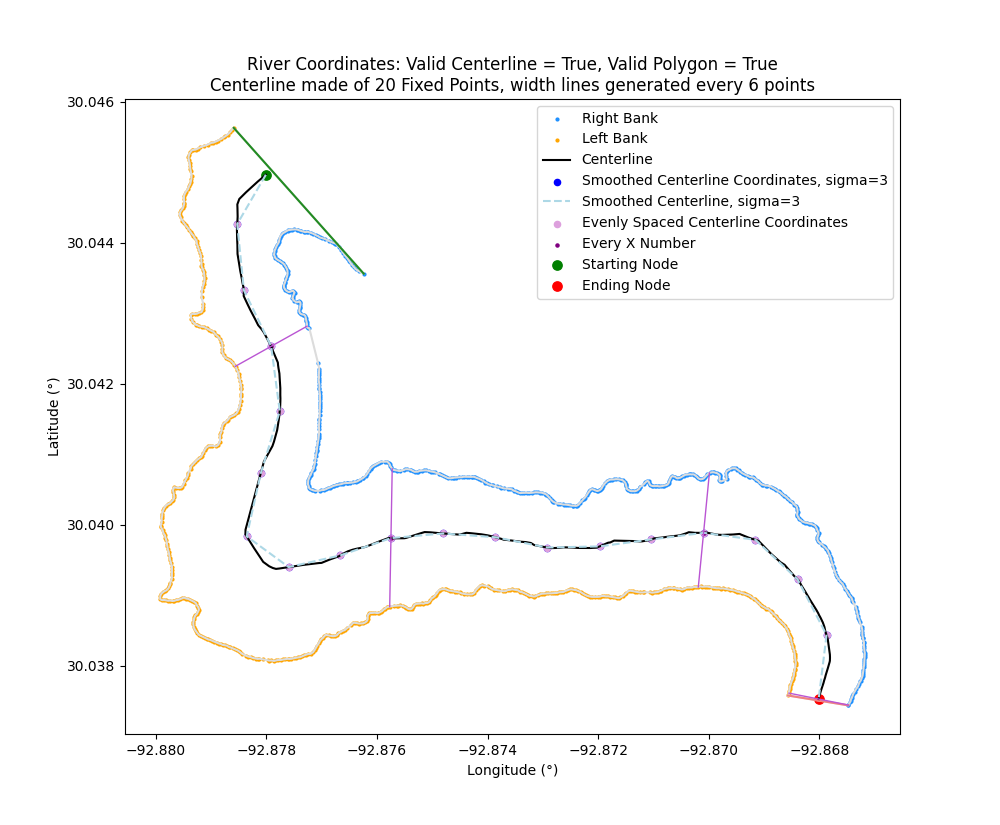
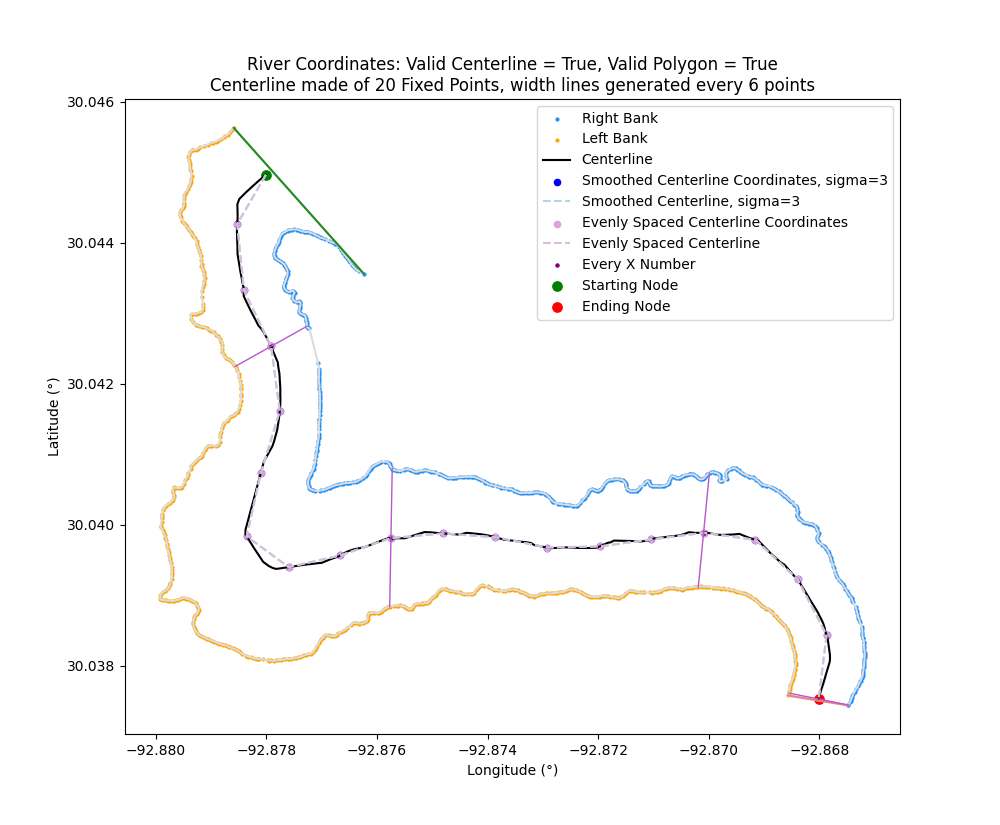
errorHandlingPlotCenterlineWidth() error handling, split from errorHandlingPlotCenterline()

Changed region(s): [[0.527, 0.2727, 0.775, 0.3939]]

diff --git a/centerline_width/plotDiagrams.py b/centerline_width/plotDiagrams.py
@@ -22,12 +22,12 @@ def plotCenterline(csv_data=None,
 					optional_cutoff=None):
 	# Plot Centerline of River
 
-	#centerline_width.errorHandlingPlotCenterline(csv_data=csv_data,
-	#											display_all_possible_paths=display_all_possible_paths,
-	#											plot_title=plot_title,
-	#											save_plot_name=save_plot_name,
-	#											displayVoronoi=displayVoronoi,
-	#											optional_cutoff=optional_cutoff)
+	centerline_width.errorHandlingPlotCenterline(csv_data=csv_data,
+												display_all_possible_paths=display_all_possible_paths,
+												plot_title=plot_title,
+												save_plot_name=save_plot_name,
+												displayVoronoi=displayVoronoi,
+												optional_cutoff=optional_cutoff)
 
 	# Plot river
 	df = pd.read_csv(csv_data)
@@ -120,6 +120,16 @@ def plotCenterlineWidth(csv_data=None,
 						gaussian_filter_sigma=None,
 						optional_cutoff=None):
 	# Plot Width Lines based on Centerline
+
+	centerline_width.errorHandlingPlotCenterlineWidth(csv_data=csv_data,
+													plot_title=plot_title, 
+													save_plot_name=save_plot_name, 
+													displayTrueCenterline=displayTrueCenterline,
+													n_interprolate_centerpoints=n_interprolate_centerpoints,
+													transect_span_distance=transect_span_distance,
+													gaussian_filter_sigma=gaussian_filter_sigma,
+													optional_cutoff=optional_cutoff)
+
 	# Plot river
 	df = pd.read_csv(csv_data)
 	if optional_cutoff: # only include the first x amount of the data
@@ -205,8 +215,6 @@ def plotCenterlineWidth(csv_data=None,
 					y.append(v)
 				plt.scatter(x, y, c="blue", label="Smoothed Centerline Coordinates, sigma={0}".format(gaussian_filter_sigma), s=20)
 				plt.plot(*zip(*smoothed_centerline_coordinates), "--", c="lightblue", label="Smoothed Centerline, sigma={0}".format(gaussian_filter_sigma))
-				change_in_length = (centerline_width.centerlineLength(centerline_coordinates=smoothed_centerline_coordinates)/centerline_width.centerlineLength(centerline_coordinates=shortest_path_points))*100
-				print("Smoothed length = {0} ({1}%)%".format(centerline_width.centerlineLength(centerline_coordinates=smoothed_centerline_coordinates), change_in_length))
 			else:
 				right_width_coordinates, left_width_coordinates = centerline_width.riverWidthFromCenterlineCoordinates(csv_data=csv_, 
 																														bank_polygon=river_bank_polygon,
@@ -220,9 +228,7 @@ def plotCenterlineWidth(csv_data=None,
 				x.append(k)
 				y.append(v)
 			plt.scatter(x, y, c="plum", label="Evenly Spaced Centerline Coordinates", s=20)
-			#plt.plot(*zip(*evenly_spaced_centerline_coordinates), "--", c="thistle", label="Evenly Spaced Centerline")
-			change_in_length = (centerline_width.centerlineLength(centerline_coordinates=evenly_spaced_centerline_coordinates)/centerline_width.centerlineLength(centerline_coordinates=shortest_path_points))*100
-			print("Evenly spaced length = {0} ({1}%)%".format(centerline_width.centerlineLength(centerline_coordinates=evenly_spaced_centerline_coordinates),change_in_length))
+			plt.plot(*zip(*evenly_spaced_centerline_coordinates), "--", c="thistle", label="Evenly Spaced Centerline")
 
 			x = []
 			y = []

diff --git a/centerline_width/error_handling.py b/centerline_width/error_handling.py
@@ -42,11 +42,6 @@ def errorHandlingPlotCenterline(csv_data=None,
 								plot_title=None,
 								save_plot_name=None,
 								displayVoronoi=None,
-								displayCenterline=None,
-								plot_width_lines=None,
-								n_interprolate_centerpoints=None,
-								transect_span_distance=None,
-								gaussian_filter_sigma=None,
 								optional_cutoff=None):
 	# Error handling for plotCenterline()
 	if csv_data is None:
@@ -77,12 +72,41 @@ def errorHandlingPlotCenterline(csv_data=None,
 		logger.critical("\nCRITICAL ERROR, [displayVoronoi]: Must be a bool, current type = '{0}'".format(type(displayVoronoi)))
 		exit()
 
-	if type(displayCenterline) != bool:
-		logger.critical("\nCRITICAL ERROR, [displayCenterline]: Must be a bool, current type = '{0}'".format(type(displayCenterline)))
+	if optional_cutoff is not None and type(optional_cutoff) != int:
+		logger.critical("\nCRITICAL ERROR, [optional_cutoff]: Must be a int, current type = '{0}'".format(type(optional_cutoff)))
 		exit()
 
-	if type(plot_width_lines) != bool:
-		logger.critical("\nCRITICAL ERROR, [plot_width_lines]: Must be a bool, current type = '{0}'".format(type(plot_width_lines)))
+def errorHandlingPlotCenterlineWidth(csv_data=None,
+									plot_title=None,
+									save_plot_name=None,
+									displayTrueCenterline=None,
+									n_interprolate_centerpoints=None,
+									transect_span_distance=None,
+									gaussian_filter_sigma=None,
+									optional_cutoff=None):
+	# Error handling for plotCenterline()
+	if csv_data is None:
+		logger.critical("\nCRITICAL ERROR, [csv_data]: Requires csv file")
+		exit()
+	else:
+		if type(csv_data) != str:
+			logger.critical("\nCRITICAL ERROR, [csv_data]: Must be a str, current type = '{0}'".format(type(csv_data)))
+			exit()
+		else:
+			if not csv_data.lower().endswith(".csv"):
+				logger.critical("\nCRITICAL ERROR, [csv_data]: Extension must be a .csv file, current extension = '{0}'".format(csv_data.split(".")[1]))
+				exit()
+
+	if plot_title is not None and type(plot_title) != str:
+		logger.critical("\nCRITICAL ERROR, [plot_title]: Must be a str, current type = '{0}'".format(type(plot_title)))
+		exit()
+
+	if save_plot_name is not None and type(save_plot_name) != str:
+		logger.critical("\nCRITICAL ERROR, [save_plot_name]: Must be a str, current type = '{0}'".format(type(save_plot_name)))
+		exit()
+
+	if type(displayTrueCenterline) != bool:
+		logger.critical("\nCRITICAL ERROR, [displayTrueCenterline]: Must be a bool, current type = '{0}'".format(type(displayTrueCenterline)))
 		exit()
 
 	if n_interprolate_centerpoints is not None:

diff --git a/centerline_width/centerline.py b/centerline_width/centerline.py
@@ -5,7 +5,6 @@ import numpy as np
 import pandas as pd
 import networkx as nx
 from shapely.geometry import Point, Polygon, LineString
-from scipy.ndimage import gaussian_filter1d
 
 # Internal centerline_width reference to access functions, global variables, and error handling
 import centerline_width
@@ -113,9 +112,9 @@ def evenlySpacedCenterline(centerline_coordinates=None, number_of_fixed_points=1
 	return interpolated_centerline_coordinates
 
 def gaussianSmoothedCoordinates(centerline_coordinates=None, gaussian_sigma=None):
-	print("sigma = {0}".format(gaussian_sigma))
-	print("TODO: gaussian_filter1d does not work for 2D features")
-	#gaussian_filter1d(x, 0.1)
+	#from scipy.ndimage import gaussian_filter1d
+	print("[gaussianSmoothedCoordinates]: sigma = {0}".format(gaussian_sigma))
+	print("TODO: gaussian_filter1d does not work for 2D features, currently equals evenly spaced coordinates")
 	return centerline_coordinates
 
 def riverWidthFromCenterlineCoordinates(csv_data=None,

diff --git a/river_centerline_width_example.py b/river_centerline_width_example.py
@@ -25,11 +25,11 @@ if __name__ == "__main__":
 	#cutoff = 800 # TODO: debug lines on the outside of the polygon
 
 	# Plot river banks
-	centerline_width.plotCenterline(csv_data="data/river_coords.csv", 
-									save_plot_name="data/river_coords_centerline.png", 
-									display_all_possible_paths=True, 
-									displayVoronoi=False,
-									optional_cutoff=cutoff)
+	#centerline_width.plotCenterline(csv_data="data/river_coords.csv", 
+	#								save_plot_name="data/river_coords_centerline.png", 
+	#								display_all_possible_paths=True, 
+	#								displayVoronoi=False,
+	#								optional_cutoff=cutoff)
 
 	centerline_width.plotCenterlineWidth(csv_data="data/river_coords.csv", 
 										save_plot_name="data/river_coords_width.png", 

diff --git a/centerline_width/__init__.py b/centerline_width/__init__.py
@@ -25,6 +25,7 @@ from .plotDiagrams import plotCenterlineWidth
 # error_handling.py function calls
 from .error_handling import errrorHandlingConvertColumnsToCSV
 from .error_handling import errorHandlingPlotCenterline
+from .error_handling import errorHandlingPlotCenterlineWidth
 from .error_handling import errorHandlingCenterlineLatitudeLongitude
 from .error_handling import errorHandlingRiverWidthFromCenterline
 from .error_handling import errorHandlingExtractPointsToTextFile

diff --git a/README.md b/README.md
@@ -278,8 +278,11 @@ If the data is too small, a centerline and its coordinates cannot not be found (
 ![example+png](https://raw.githubusercontent.com/cyschneck/river-geometry/main/data/doc_examples/invalid_example2.png)
 Can be fixed by expanding the data until the polygon is large enough to contain at least two different vertex points
 
-## Developer Notes: Tech Debt
+## Developer Notes: Tech Debt and Bugs
 * Combine backend functionality for plotCenterline and plotCenterlineWidth into a shared component
+* error handling for plotCenterline and plotCenterlineWidth
+* plotCenterlineWidth: add percentage difference in length for evenly spaced and gaussian smoothed lines compared to voronoi (in legend or title)
+* Bug: (plotCenterlineWidth) cutoff = 800 debug lines on the outside of the polygon
 * README overview of all three types of centerlines (voronoi generated, evenly spaced, gaussian smoothed)
 
 ## Citations
